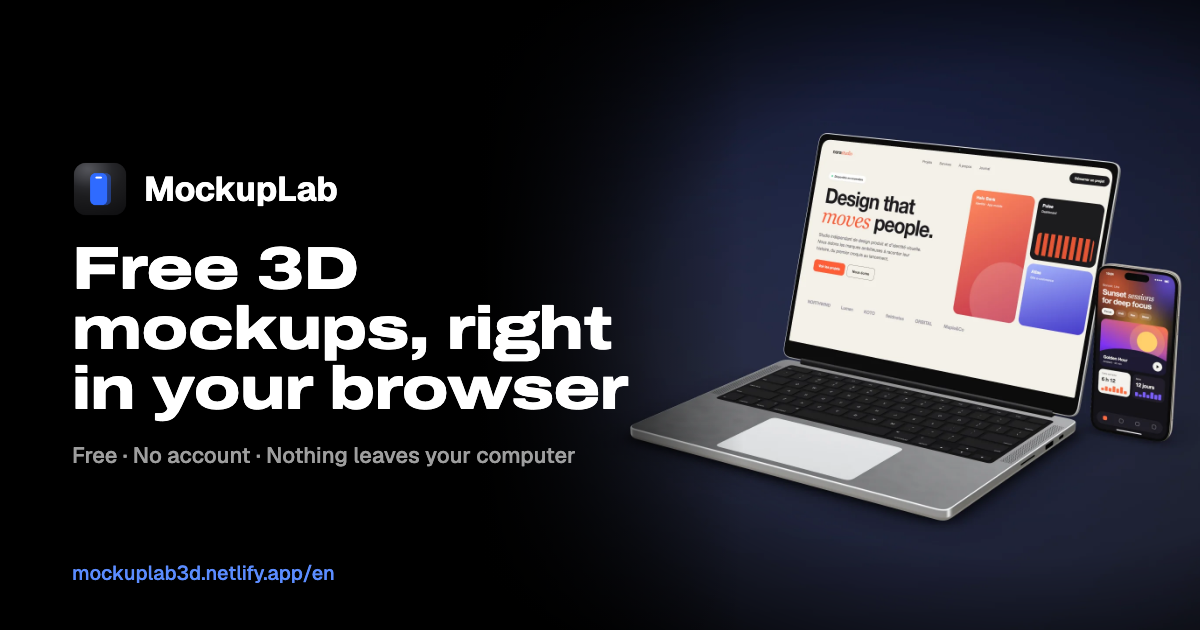
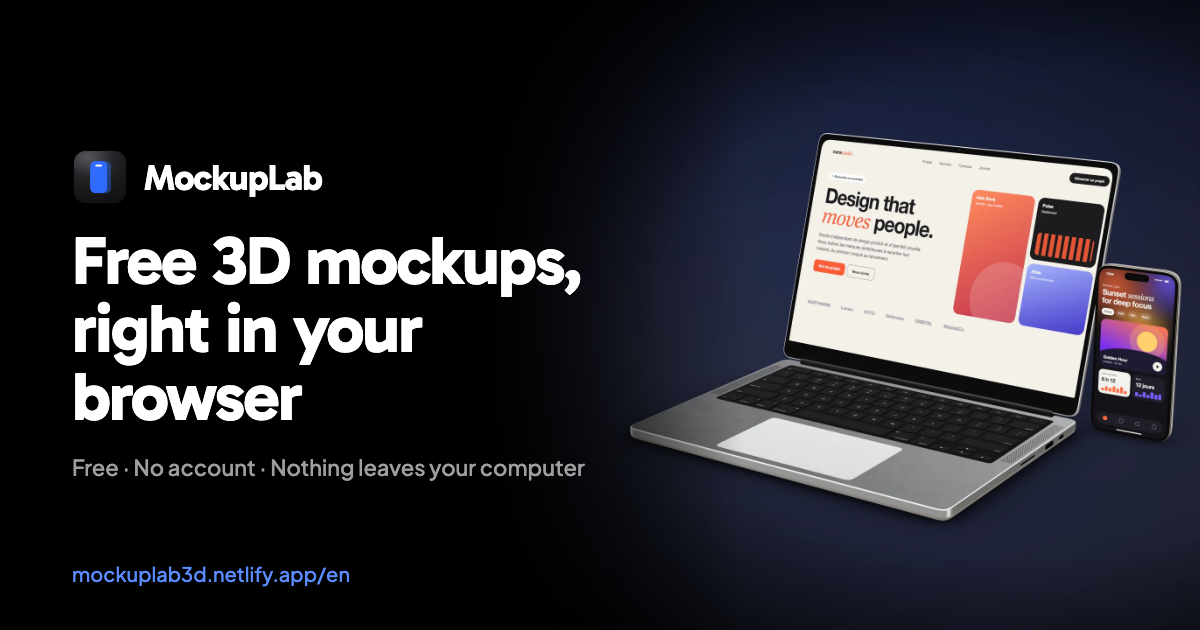
Type: Gabarito 700 for titles, Plus Jakarta Sans for text; link previews redrawn

Changed region(s): [[0.0617, 0.3619, 0.5242, 0.754], [0.0617, 0.2413, 0.2775, 0.3317], [0.0617, 0.8746, 0.3083, 0.9349]]

diff --git a/src/index.css b/src/index.css
@@ -1,7 +1,10 @@
 @import 'tailwindcss';
+/* interface: Gabarito for titles, Plus Jakarta Sans for text */
+@import '@fontsource-variable/gabarito';
+@import '@fontsource-variable/plus-jakarta-sans';
+/* inside renders only (brand kits, device screens, the client board): the user's content, not the interface */
 @import '@fontsource-variable/geist';
 @import '@fontsource-variable/geist-mono';
-/* titles: Archivo with its width axis (Expanded) */
 @import '@fontsource-variable/archivo/wdth.css';
 @import '@fontsource/instrument-serif/400-italic.css';
 
@@ -127,9 +130,9 @@
   --color-stage: var(--stage);
   --color-success: var(--success);
   --color-danger: var(--danger);
-  --font-sans: 'Geist Variable', ui-sans-serif, system-ui, sans-serif;
+  --font-sans: 'Plus Jakarta Sans Variable', ui-sans-serif, system-ui, sans-serif;
   --font-mono: 'Geist Mono Variable', ui-monospace, monospace;
-  --font-display: 'Archivo Variable', ui-sans-serif, system-ui, sans-serif;
+  --font-display: 'Gabarito Variable', ui-sans-serif, system-ui, sans-serif;
   --color-brand: var(--brand);
   /* filled brand surfaces (buttons, marks): the same blue in both themes, white text on it passes AA */
   --color-brand-solid: #2f6bff;
@@ -277,8 +280,9 @@ code {
 
 .font-display {
   font-family: var(--font-display);
-  font-stretch: 125%;
-  letter-spacing: -0.02em;
+  /* one weight for every title (Gabarito 700), tightened a little */
+  font-weight: 700;
+  letter-spacing: -0.025em;
 }
 
 @keyframes toast-in {

diff --git a/DESIGN.md b/DESIGN.md
@@ -20,7 +20,7 @@ live) come first. Nothing in the UI or the visuals competes with the user's desi
 - **The mark**: an upright phone in the brand blue, a lighter copy of it behind (35–42 % opacity) for depth —
   the « 3D » — and a white island. Never tilted, never outlined, never in another colour than the brand blue
   (on a coloured background, put it on the graphite tile).
-- **The wordmark**: « MockupLab », one word, Archivo Expanded 700, the same colour as the text around it
+- **The wordmark**: « MockupLab », one word, Gabarito 700, the same colour as the text around it
   (`#16171b` on light, white on dark). Mark and wordmark side by side, gap ≈ 0.35× the mark's height.
 - **Clear space**: half the mark's width on every side. **Minimum size**: 16 px for the mark alone, 24 px
   with the wordmark.
@@ -44,11 +44,11 @@ Shadows are tinted night-blue (`rgb(22 32 72 / …)`), never plain grey.
 
 ## Type
 
-- **Titles**: Archivo, width 125 % (Expanded), weight 800 on the landing, 700 in the app. Tight leading
-  (0.96–1.04), `text-balance`.
-- **Text**: Geist (variable). App: 13 px base, 15–17 px on the landing; leading 1.45–1.6.
-- Fonts inside renders (brand kits, captions) are the user's: Instrument Serif and imported fonts live there
-  only, never in the interface.
+- **Titles**: Gabarito (variable), always weight 700, letter-spacing -0.025em (class `font-display`). Tight leading
+  (0.96–1.04), `text-balance`. Size makes the hierarchy, not weight.
+- **Text**: Plus Jakarta Sans (variable). App: 13 px base, 15–17 px on the landing; leading 1.45–1.6.
+- Fonts inside renders (brand kits, device screens, the client board: Geist, Archivo, Instrument Serif and imported
+  fonts) belong to the content, never to the interface.
 
 ## Shape, depth, motion
 
